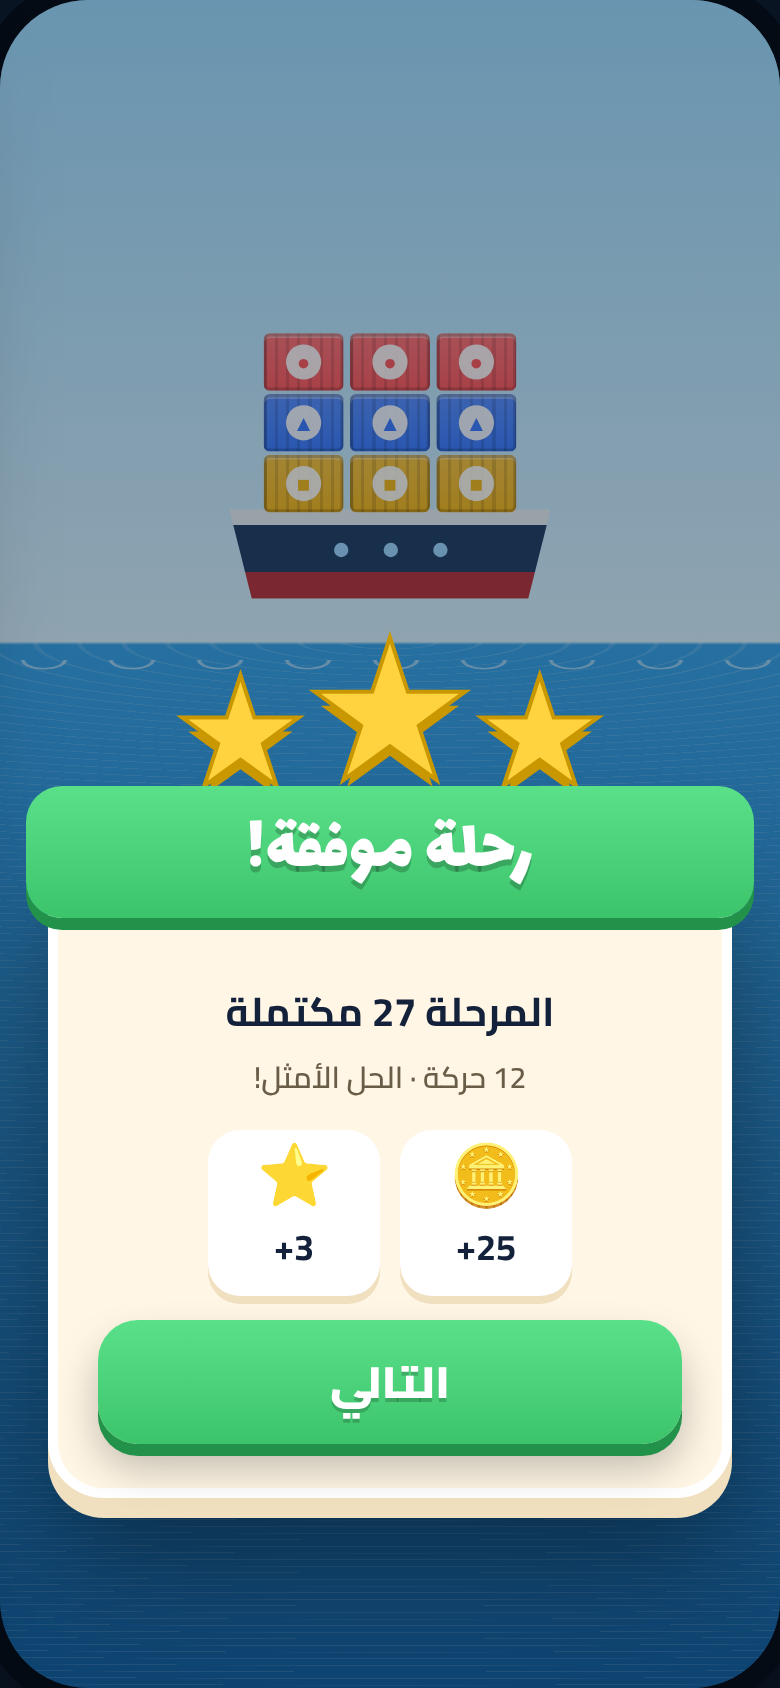
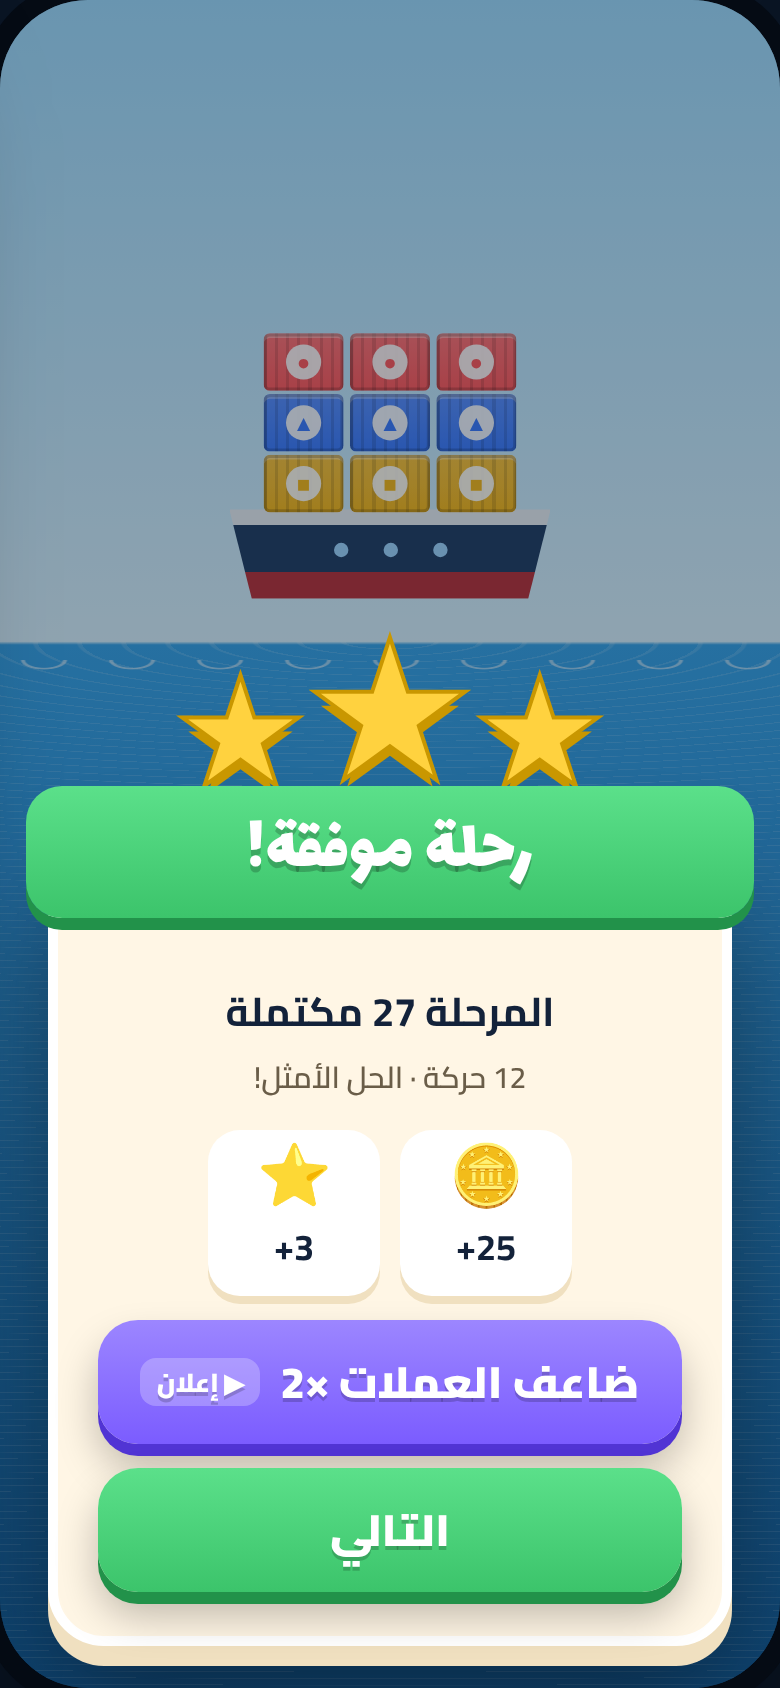
Cargo game: optional rewarded ads in mockups and design doc
Claude-Session: https://claude.ai/code/session_0198GSpUHpAsMi38EfXjb44N

Changed region(s): [[0.0615, 0.7701, 0.9538, 1.0]]

diff --git a/design/cargo/cargo-mockups.html b/design/cargo/cargo-mockups.html
@@ -35,6 +35,8 @@ body { font-family: "Cairo", sans-serif; background: #0b1626; color: var(--ink);
 .btn-green { background: linear-gradient(180deg, #5be08a, var(--green)); box-shadow: 0 6px 0 var(--green-d), 0 12px 20px rgba(0,0,0,.25); }
 .btn-orange { background: linear-gradient(180deg, #ffad6b, var(--orange)); box-shadow: 0 6px 0 var(--orange-d), 0 12px 20px rgba(0,0,0,.25); }
 .btn-blue { background: linear-gradient(180deg, #6fb6ff, #2f7fe0); box-shadow: 0 6px 0 #1d58a6, 0 12px 20px rgba(0,0,0,.25); }
+.btn-purple { background: linear-gradient(180deg, #9c86ff, var(--purple)); box-shadow: 0 6px 0 #5134d4, 0 12px 20px rgba(0,0,0,.25); }
+.adtag { background: rgba(255,255,255,.25); border-radius: 8px; padding: 0 8px; font-size: 13px; }
 .btn-gray { background: linear-gradient(180deg, #c7d0dc, #9aa8ba); box-shadow: 0 6px 0 #77869a; }
 .btn small { font-size: 14px; font-weight: 700; }
 .title { position: absolute; top: 104px; left: 0; right: 0; text-align: center; color: #fff; font-family: "Lalezar"; font-weight: 400; font-size: 36px; text-shadow: 0 3px 0 rgba(0,0,0,.25); z-index: 5; }
@@ -114,7 +116,7 @@ body { font-family: "Cairo", sans-serif; background: #0b1626; color: var(--ink);
 .demo { display: flex; align-items: center; justify-content: center; gap: 14px; margin: -4px 0 10px; }
 .demo .arrow { font-size: 28px; font-weight: 900; color: var(--navy2); }
 </style></head><body>
-<header class="page-head"><h1>لغز شحن السفينة</h1><p>تصاميم كل شاشات اللعبة — محايدة، دون كائنات حية، ودون إعلانات</p></header>
+<header class="page-head"><h1>لغز شحن السفينة</h1><p>تصاميم كل شاشات اللعبة — محايدة، ودون كائنات حية، وإعلاناتها اختيارية</p></header>
 <main class="grid">
 <figure class="cell"><div class="phone deep" id="s1">
 
@@ -227,6 +229,7 @@ body { font-family: "Cairo", sans-serif; background: #0b1626; color: var(--ink);
     <h3>المرحلة 27 مكتملة</h3>
     <p>12 حركة · الحل الأمثل!</p>
     <div class="rewards"><div class="reward"><i class="e" style="">🪙</i><b>+25</b></div><div class="reward"><i class="e" style="">⭐</i><b>+3</b></div></div>
+    <div class="btn btn-purple">ضاعف العملات ×2 <span class="adtag">▶ إعلان</span></div>
     <div class="btn btn-green">التالي</div>
   </div>
 
@@ -240,6 +243,7 @@ body { font-family: "Cairo", sans-serif; background: #0b1626; color: var(--ink);
     <h3>الميل وصل إلى <span class="ltr">+11°</span> والحد <span class="ltr">8°</span></h3>
     <p>الجانب الأيمن أثقل بـ<span class="ltr">7</span> أطنان. جرّب نقل الحاويات الثقيلة إلى الوسط.</p>
     <div class="btn btn-orange">أعد المحاولة</div>
+    <div class="btn btn-purple">تلميح مجاني <span class="adtag">▶ إعلان</span></div>
     <div class="link">تراجع خطوة ثم أكمل</div>
   </div>
 
@@ -293,29 +297,30 @@ body { font-family: "Cairo", sans-serif; background: #0b1626; color: var(--ink);
 </div><figcaption>11. تطوير الميناء<span>النجوم تطوّر ميناءك</span></figcaption></figure><figure class="cell"><div class="phone deep" id="s12">
 
   <style>.shop-t{position:absolute;top:100px;left:0;right:0;text-align:center;font-family:Lalezar;font-size:38px;color:var(--yellow)}
-  .trust{position:absolute;top:156px;left:20px;right:20px;background:rgba(60,196,107,.18);border:2px solid var(--green);border-radius:14px;padding:5px 10px;font-size:13px;font-weight:700;text-align:center;color:#fff}
+  .trust{position:absolute;top:150px;left:20px;right:20px;background:rgba(60,196,107,.18);border:2px solid var(--green);border-radius:14px;padding:5px 10px;font-size:13px;font-weight:700;text-align:center;color:#fff}
   .offer{position:absolute;left:20px;right:20px;border-radius:20px;padding:12px 14px;display:flex;align-items:center;gap:12px;color:#fff}
   .offer .tx{flex:1} .offer .tx b{display:block;font-size:17px} .offer .tx span{font-size:12.5px;opacity:.95}
   .price{background:var(--green);color:#fff;font-weight:900;border-radius:12px;padding:7px 12px;box-shadow:0 4px 0 var(--green-d);font-size:16px;direction:ltr;white-space:nowrap}
-  .coins{position:absolute;top:446px;left:20px;right:20px;display:grid;grid-template-columns:1fr 1fr;gap:12px}
-  .cp{background:#fff;border-radius:18px;padding:8px;text-align:center;box-shadow:0 5px 0 #9fb2c9;position:relative}
+  .coins{position:absolute;top:408px;left:20px;right:20px;display:grid;grid-template-columns:1fr 1fr;gap:12px}
+  .cp{background:#fff;border-radius:18px;padding:6px 8px;text-align:center;box-shadow:0 5px 0 #9fb2c9;position:relative}
   .cp b{display:block;font-size:19px} .cp .price{display:block;margin-top:6px}
   .cp .tag{position:absolute;top:-10px;right:-6px;background:var(--red);color:#fff;font-size:11px;font-weight:900;padding:1px 8px;border-radius:8px}
   .bonus{direction:ltr;unicode-bidi:isolate;display:inline-block;background:var(--yellow);color:var(--ink);font-size:11px;font-weight:900;border-radius:8px;padding:0 6px}</style>
   <div class="hud"><div class="icon-btn"><i class="e" style="">⬅</i></div><div class="spacer"></div><div class="pill"><i class="e" style="">🪙</i>1,250</div></div>
   <div class="shop-t">المتجر</div>
-  <div class="trust">✅ لا إعلانات · لا صناديق حظ · ترى ما تشتريه</div>
-  <div class="offer" style="top:204px;background:linear-gradient(135deg,var(--orange),#ff5f6d);box-shadow:0 6px 0 #b8402a"><i class="e" style="font-size:40px">🎒</i><div class="tx"><b>حزمة البداية · مرة واحدة</b><span>1000 🪙 + 3 ↩ + 3 🏗 + 2 ⚓</span></div><span class="price">$0.99</span></div>
-  <div class="offer" style="top:318px;background:linear-gradient(135deg,#2f7fe0,#6a5cff);box-shadow:0 6px 0 #1d4fa6"><i class="e" style="font-size:40px">🗺</i><div class="tx"><b>افتح الحملة كاملة</b><span>كل المستويات العشرة + 500 🪙</span></div><span class="price">$2.99</span></div>
+  <div class="trust">✅ لا صناديق حظ · ترى ما تشتريه · الإعلانات اختيارية</div>
+  <div class="offer" style="top:196px;background:linear-gradient(135deg,var(--orange),#ff5f6d);box-shadow:0 6px 0 #b8402a"><i class="e" style="font-size:40px">🎒</i><div class="tx"><b>حزمة البداية · مرة واحدة</b><span>1000 🪙 + 3 ↩ + 3 🏗 + 2 ⚓</span></div><span class="price">$0.99</span></div>
+  <div class="offer" style="top:300px;background:linear-gradient(135deg,#2f7fe0,#6a5cff);box-shadow:0 6px 0 #1d4fa6"><i class="e" style="font-size:40px">🗺</i><div class="tx"><b>افتح الحملة كاملة</b><span>كل المستويات العشرة + 500 🪙</span></div><span class="price">$2.99</span></div>
   <div class="coins">
     <div class="cp"><i class="e" style="font-size:36px">🪙</i><b>500</b><span class="price">$0.49</span></div>
     <div class="cp"><span class="tag">الأكثر شراءً</span><i class="e" style="font-size:36px">💰</i><b>1,200</b><span class="price">$0.99</span></div>
     <div class="cp"><i class="e" style="font-size:36px">💰</i><b>3,500 <span class="bonus">+15%</span></b><span class="price">$2.99</span></div>
     <div class="cp"><span class="tag">أفضل قيمة</span><i class="e" style="font-size:36px">🏦</i><b>10,000 <span class="bonus">+40%</span></b><span class="price">$5.99</span></div>
   </div>
-  <div style="position:absolute;bottom:34px;left:20px;right:20px;background:rgba(255,255,255,.12);border-radius:16px;padding:10px;color:#fff;text-align:center;font-weight:800"><i class="e" style="">🎨</i> أشكال السفن والموانئ · من <span class="ltr">$0.99</span></div>
+  <div style="position:absolute;bottom:22px;left:20px;right:20px"><div class="btn btn-purple" style="height:56px"><i class="e" style="">🪙</i> 50 مجاناً <span class="adtag">▶ إعلان</span></div></div>
+  <div style="position:absolute;bottom:96px;left:20px;right:20px;background:rgba(255,255,255,.12);border-radius:16px;padding:8px;color:#fff;text-align:center;font-weight:800"><i class="e" style="">🎨</i> أشكال السفن والموانئ · من <span class="ltr">$0.99</span></div>
 
-</div><figcaption>12. المتجر<span>مشتريات واضحة، دون إعلانات ودون صناديق حظ</span></figcaption></figure><figure class="cell"><div class="phone deep" id="s13">
+</div><figcaption>12. المتجر<span>مشتريات واضحة وعملات مجانية بإعلان اختياري</span></figcaption></figure><figure class="cell"><div class="phone deep" id="s13">
 
   <style>.dc{position:absolute;top:200px;left:26px;right:26px;background:var(--cream);border-radius:28px;padding:22px 20px 20px;text-align:center;border:5px solid #fff;box-shadow:0 10px 0 var(--cream-d)}
   .dc .ok{display:inline-block;background:var(--green);color:#fff;font-weight:900;border-radius:14px;padding:2px 16px;box-shadow:0 4px 0 var(--green-d)}

diff --git a/research/cargo-game-design-document.md b/research/cargo-game-design-document.md
@@ -13,8 +13,8 @@
 | **الجمهور** | من 13 عاماً فأكثر، والمحتوى مناسب للعائلة |
 | **مدة الجلسة** | 1–4 دقائق للمرحلة |
 | **عدد المراحل** | 200 مرحلة في 10 مستويات |
-| **الربح** | مشتريات داخل اللعبة فقط، دون إعلانات |
-| **الاتصال** | تعمل دون إنترنت بالكامل، ما عدا لغز اليوم والمشتريات |
+| **الربح** | مشتريات داخل اللعبة + إعلانات بمكافأة اختيارية |
+| **الاتصال** | تعمل دون إنترنت، ما عدا لغز اليوم والمشتريات والإعلانات |
 
 **الفكرة في جملة:** حمّل الحاويات على السفينة بحيث تبقى **متوازنة**، وتكون حاويات كل ميناء **فوق** حاويات الموانئ التالية، ثم أبحر.
 
@@ -26,7 +26,7 @@
 2. **دون كائنات حية:** كل العناصر سفن وحاويات ورافعات وموانئ وطقس.
 3. **محايدة تماماً:** لا ثقافات بعينها، ولا أديان، ولا مناسبات، ولا رسائل أو أجندات.
 4. **عادلة:** كل مرحلة قابلة للحل دون دفع، ومتحقَّق منها آلياً قبل النشر.
-5. **دون إعلانات:** لا إعلانات إجبارية ولا اختيارية.
+5. **إعلانات اختيارية فقط:** لا تظهر إلا إذا ضغط اللاعب بنفسه، ومفلترة بصرامة، ويمكن إيقافها عن بُعد.
 6. **احترام وقت اللاعب:** لا انتظار إجباري، ولا مراحل مصممة لإجبار الشراء.
 
 ---
@@ -455,7 +455,9 @@
 
 ---
 
-## 10. الربح (مشتريات فقط)
+## 10. الربح (مشتريات + إعلانات بمكافأة)
+
+### 10.1 المشتريات
 
 | العرض | السعر | المحتوى |
 |---|---|---|
@@ -471,6 +473,19 @@
 - **بعدها:** تُفتح المستويات تدريجياً باللعب، أو فوراً بشراء «فتح الحملة كاملة».
 - **لا صناديق حظ**، وكل شراء محتواه معروض بوضوح قبل الدفع.
 - **كل المدفوعات عبر Google Play.**
+
+### 10.2 الإعلانات بمكافأة (اختيارية دائماً)
+| المكان | المكافأة |
+|---|---|
+| شاشة الفوز | مضاعفة العملات ×2 |
+| شاشة الفشل | تلميح مجاني |
+| المتجر | 50 عملة مجاناً (حد يومي) |
+
+**قواعد الإعلانات:**
+- **لا إعلانات إجبارية** بين المراحل أو أثناء اللعب.
+- **فلترة صارمة:** تصنيف المحتوى المناسب لكل الأعمار، وحجب فئات القمار والمواعدة والكحول والموسيقى والمحتوى غير اللائق، ومراجعة دورية للإعلانات.
+- **الشبكة الإعلانية:** تُحدد لاحقاً، وتُفضَّل شبكة حلال إن ثبتت مصداقيتها.
+- **زر إيقاف عن بُعد:** إيقاف الإعلانات فوراً من ملف على الموقع دون تحديث اللعبة.
 - **الأسعار المحلية:** تُضبط لكل دولة في Google Play حسب القدرة الشرائية.
 
 ---
@@ -545,7 +560,7 @@
 - لا تسجيل دخول، ولا جمع بيانات شخصية.
 - التقدّم محفوظ على الجهاز.
 - الدفع عبر Google Play فقط.
-- لا إعلانات ولا شبكات إعلانية.
+- **الإعلانات:** الشبكة الإعلانية قد تستخدم معرّف الإعلانات ومعلومات تقنية عامة لعرض الإعلانات وقياسها. يُذكر اسمها ورابط سياستها في سياسة الخصوصية بعد تحديدها.
 - لغز اليوم يحمّل بيانات المرحلة فقط، دون إرسال أي بيانات شخصية.
 
 ---
@@ -562,7 +577,7 @@
 ## 20. خطة التحديثات بعد الإطلاق
 | التحديث | المحتوى |
 |---|---|
-| الإطلاق | المستويات 1–10 (200 مرحلة)، ولغز اليوم، ووضع الهدوء |
+| الإطلاق | المستويات 1–10 (200 مرحلة)، ولغز اليوم، ووضع الهدوء، والإعلانات بمكافأة |
 | بعد شهر | تحدي الأسبوع، وأشكال سفن جديدة |
 | بعد شهرين | مستوى جديد (20 مرحلة) بعنصر جديد |
 | كل شهرين بعدها | مستوى جديد + تحسينات حسب آراء اللاعبين |
